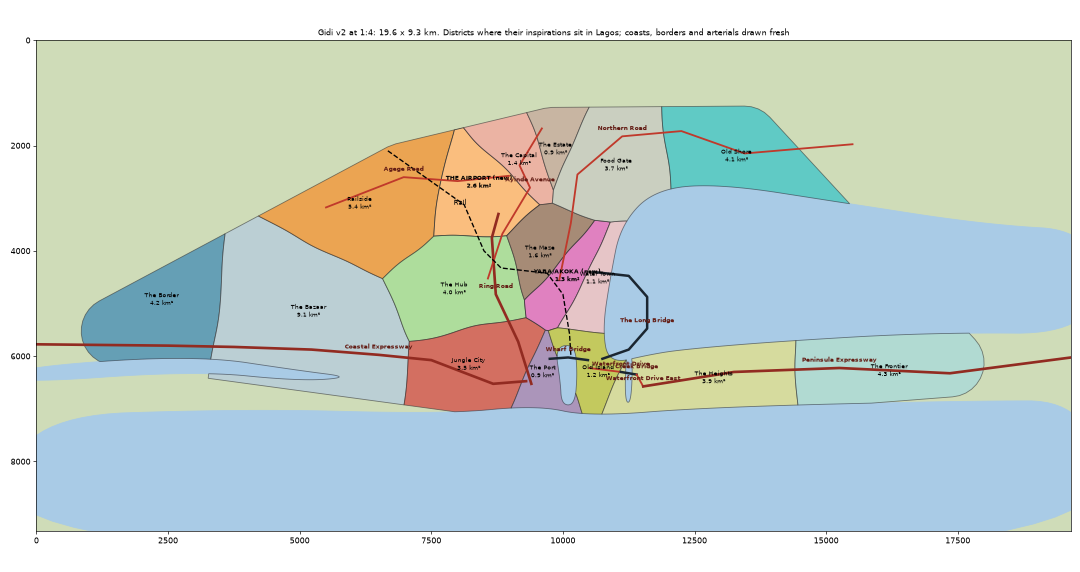
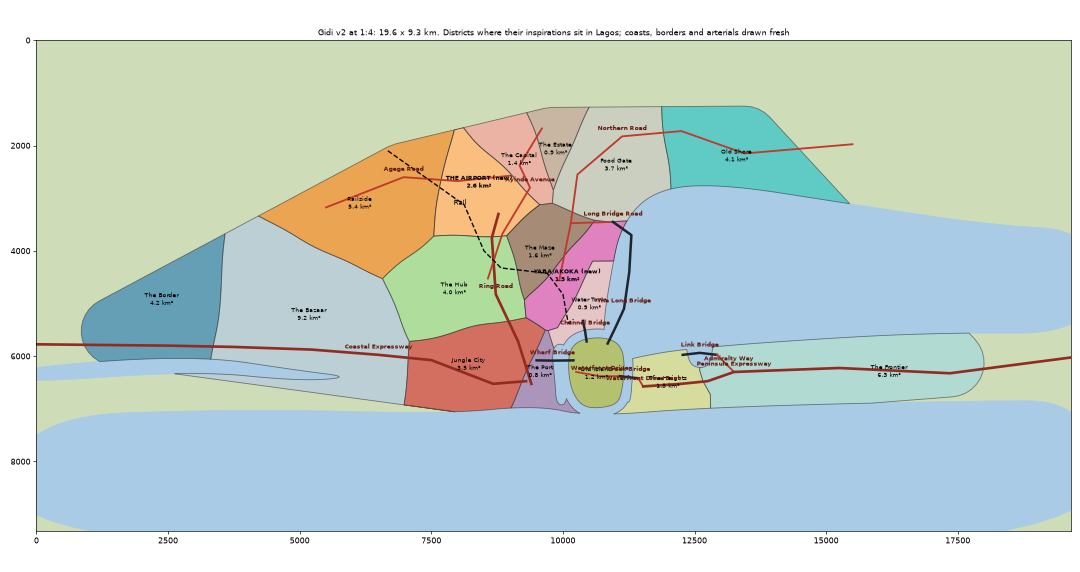
Layout v2: Old Island is an island again; the Link, Long and Channel bridges
Old Island is drawn as its own island, ringed by water (the harbour, a channel to
the lagoon, the creek, the sea). The Long Bridge (Third Mainland) now runs from
Akoka down the lagoon onto the Island's north end. The Channel Bridge (Carter) and
the Link Bridge (Lekki-Ikoyi) are added, across a new bay between the Heights and
the peninsula. Yaba/Akoka reaches the lagoon. Water is written without holes.

Claude-Session: https://claude.ai/code/session_01QKUSE24FeFykNHbYGUHskU

Changed region(s): [[0.4889, 0.3566, 0.8556, 0.743], [0.275, 0.535, 0.3056, 0.5647]]

diff --git a/scripts/layout_v2.py b/scripts/layout_v2.py
@@ -37,11 +37,31 @@ OCEAN = chaikin([(-500, coast_y + 300), (X(10), coast_y + 150), (X(25), coast_y 
 # the lagoon: east of Yaba and Water Town, north of the Island strip, south of the north shore (Ikorodu)
 LAGOON = chaikin([(X(37.5), Y(1.9)), (X(37.0), Y(4.5)), (X(37.6), Y(8.5)), (X(38.4), Y(12.5)), (X(41), Y(15.2)), (X(46), Y(15.6)), (X(55), Y(14.2)),
                   (X(66), Y(12.5)), (W + 500, Y(12)), (W + 500, Y(4.2)), (X(62), Y(4.3)), (X(50), Y(3.6)), (X(43), Y(3.0)), (X(40.5), Y(2.6))])
-HARBOUR = chaikin([(X(33.4), Y(3.2)), (X(34.9), Y(3.4)), (X(35.1), Y(1.2)), (X(34.9), Y(-1.2)), (X(33.9), Y(-1.2)), (X(33.8), Y(0.6))])   # west of the Island
+HARBOUR = chaikin([(X(33.1), Y(3.3)), (X(34.3), Y(3.5)), (X(34.4), Y(1.2)), (X(34.3), Y(-1.2)), (X(33.5), Y(-1.2)), (X(33.4), Y(0.6))])   # west of the Island
+# Old Island (Lagos Island) is an island: drawn fresh as one kidney of land, then ringed by water on every side (the channel to
+# its north joins the harbour to the lagoon, as the real one does under the bridges). Larger than its inspiration: our own twist.
+ISLAND = Polygon(chaikin([(10120, 5900), (10300, 5700), (10650, 5640), (10950, 5690), (11120, 5850), (11170, 6150), (11140, 6550),
+                          (11060, 6900), (10700, 6990), (10380, 6960), (10180, 6700), (10100, 6300)])).buffer(0)
+MOAT = 170   # the channel's width round the island, metres
+# the bay between the Heights (Ikoyi, Victoria Island) and the peninsula (Lekki): the Link Bridge crosses it
+BAY = chaikin([(X(43.3), Y(3.9)), (X(45.5), Y(3.9)), (X(45.2), Y(2.0)), (X(44.7), Y(1.6)), (X(43.9), Y(1.7)), (X(43.5), Y(2.3))])
+BAY_X = X(44.4)   # the Heights end at the bay; the land east of it is the Frontier's (Lekki's) west end
 CREEK_E = chaikin([(X(38.8), Y(2.8)), (X(39.3), Y(2.8)), (X(39.2), Y(-1.0)), (X(38.7), Y(-1.0))])                                     # east of the Island
 CREEK_W = chaikin([(-500, Y(1.6)), (X(6), Y(2.6)), (X(14), Y(1.4)), (X(18), Y(0.9)), (X(14), Y(0.6)), (X(6), Y(1.4)), (-500, Y(0.4))])  # Badagry creek
-water = unary_union([Polygon(x).buffer(0) for x in (OCEAN, LAGOON, HARBOUR, CREEK_E, CREEK_W)])
+water = unary_union([Polygon(x).buffer(0) for x in (OCEAN, LAGOON, HARBOUR, CREEK_E, CREEK_W, BAY)] + [ISLAND.buffer(MOAT)]).difference(ISLAND)
 land = box(0, 0, W, H).difference(water)
+
+
+def no_holes(g):
+    """The map keeps water as plain outlines, so a ring of water (round the island) is cut through the island's middle into pieces."""
+    out = []
+    for p in getattr(g, 'geoms', [g]):
+        if not p.interiors:
+            out.append(p); continue
+        c = Polygon(p.interiors[0]).centroid
+        for half in (box(-1, -1, c.x, H + 1), box(c.x, -1, W + 1, H + 1)):
+            out += no_holes(p.intersection(half))
+    return [q for q in out if q.geom_type == 'Polygon' and q.area > 1]
 # where the built city ends (bush and farms beyond): a fresh outline round the districts
 hull = MultiPoint([Point(*v) for v in anchor.values()]).convex_hull.buffer(2.6 * km, quad_segs=8)
 city = hull.intersection(land)
@@ -61,8 +81,26 @@ def bend(poly, amp, seed=7):
 
 D = {}
 for k in ids:
-    P = bend(cells[k], 0.18 * km).intersection(city)
+    P = bend(cells[k], 0.18 * km).intersection(city).difference(ISLAND)
     D[k] = max(getattr(P, 'geoms', [P]), key=lambda g: g.area)
+D['oldisland'] = ISLAND.intersection(city)
+# east of a bent line from the bay's foot down to the beach (where Victoria Island meets Lekki)
+east = Polygon([(BAY_X, 0), (W, 0), (W, H), (BAY_X + 260, H), (BAY_X + 200, Y(-0.4)), (BAY_X + 60, Y(0.6)), (BAY_X, Y(1.4))])
+D['frontier'] = unary_union([D['frontier'], D['heights'].intersection(east)])
+D['frontier'] = max(getattr(D['frontier'], 'geoms', [D['frontier']]), key=lambda g: g.area)
+D['heights'] = max(getattr(D['heights'].difference(east), 'geoms', [D['heights'].difference(east)]), key=lambda g: g.area)
+# Akoka's waterfront (the university's): Water Town's shore north of the Long Bridge's middle goes to Yaba/Akoka, as Akoka sits north of Makoko
+north = Polygon([(0, 0), (W, 0), (W, 4150), (0, 4250)])
+u = unary_union([D['yaba'], D['watertown'].intersection(north).buffer(0.5)])
+D['yaba'] = max(getattr(u, 'geoms', [u]), key=lambda q: q.area)
+D['watertown'] = max(getattr(D['watertown'].difference(north), 'geoms', [D['watertown'].difference(north)]), key=lambda q: q.area)
+# land the cells left out (scraps cut off by the water) joins the district it shares the longest border with
+left = city.difference(unary_union(list(D.values())))
+for g in getattr(left, 'geoms', [left]):
+    if g.area > 1000:
+        k = max(D, key=lambda k: g.buffer(2).intersection(D[k]).area)
+        u = unary_union([D[k], g.buffer(0.5)])
+        D[k] = max(getattr(u, 'geoms', [u]), key=lambda q: q.area)
 names = {'border': 'The Border', 'bazaar': 'The Bazaar', 'railside': 'Railside', 'airport': 'THE AIRPORT (new)', 'hub': 'The Hub', 'jungle': 'Jungle City',
          'capital': 'The Capital', 'port': 'The Port', 'maze': 'The Maze', 'estate': 'The Estate', 'yaba': 'YABA/AKOKA (new)', 'watertown': 'Water Town',
          'foodgate': 'Food Gate', 'oldisland': 'Old Island', 'heights': 'The Heights', 'oldshore': 'Old Shore', 'frontier': 'The Frontier'}
@@ -74,19 +112,23 @@ ART = [
     ('Ayinde Avenue', 'art', [P_('hub', 0, 0), (X(29.4), Y(11.8)), P_('airport', 900, -50), P_('capital', -100, 300), P_('estate', -200, -250)]),
     ('Northern Road', 'art', [P_('yaba', -120, 80), (X(34.6), Y(12.6)), P_('foodgate', -200, 300), (X(38.5), Y(19.2)), (X(43), Y(19.6)), P_('oldshore', 0, 250), (X(56), Y(18.6))]),
     ('Agege Road', 'art', [P_('capital', -300, 500), (X(26), Y(15.8)), P_('railside', 0, 0), (X(16), Y(13.8))]),
-    ('The Long Bridge', 'bridge', [(X(36.3), Y(8.9)), (X(39.0), Y(8.6)), (X(40.4), Y(7.0)), (X(40.4), Y(4.6)), (X(39.0), Y(3.0)), (X(37.0), Y(2.3))]),   # out over the lagoon
-    ('Wharf Bridge', 'bridge', [(X(33.0), Y(2.3)), (X(34.4), Y(2.4)), (X(35.9), Y(2.2))]),   # across the harbour
-    ('Waterfront Drive', 'art', [(X(36.0), Y(1.6)), (X(38.4), Y(1.3))]),
-    ('Creek Bridge', 'bridge', [(X(38.4), Y(1.3)), (X(39.6), Y(1.1))]),   # over the creek between the Island and the Heights
-    ('Waterfront Drive East', 'art', [(X(39.6), Y(1.1)), P_('heights', 0, 0)]),
-    ('Peninsula Expressway', 'exp', [P_('heights', 0, 0), (X(47), Y(1.3)), (X(55), Y(1.6)), P_('frontier', 0, 200), (W, Y(2.4))]),
+    ('Long Bridge Road', 'art', [(X(34.6), Y(12.6)), (10950, 3450)]),   # off the Northern Road to the bridge's foot
+    ('The Long Bridge', 'bridge', [(10950, 3450), (11300, 3700), (11260, 4400), (11160, 5100), (11000, 5450), (10850, 5760)]),   # Third Mainland: down the lagoon, past Water Town, onto the Island's north
+    ('Wharf Bridge', 'bridge', [(9500, 6080), (9800, 6085), (10200, 6080)]),   # Eko: from the Port side across the harbour to the Island
+    ('Channel Bridge', 'bridge', [(10380, 5330), (10420, 5520), (10450, 5720)]),   # Carter: from Yaba across the channel to the Island's north
+    ('Waterfront Drive', 'art', [(10250, 6300), (10700, 6380), (11080, 6380)]),
+    ('Creek Bridge', 'bridge', [(11080, 6380), (11250, 6400), (11430, 6420)]),   # Falomo: over the creek between the Island and the Heights
+    ('Waterfront Drive East', 'art', [(11430, 6420), P_('heights', 0, 0)]),
+    ('Link Bridge', 'bridge', [(X(43.1), Y(2.6)), (X(44.4), Y(2.75)), (X(45.7), Y(2.6))]),   # Lekki-Ikoyi: across the bay from the Heights to the peninsula
+    ('Admiralty Way', 'art', [(X(45.7), Y(2.6)), (X(46.6), Y(1.7)), (X(47), Y(1.3))]),   # the bridge's foot down to the expressway
+    ('Peninsula Expressway', 'exp', [P_('heights', 0, 0), (X(43), Y(0.4)), (X(45), Y(0.6)), (X(47), Y(1.3)), (X(55), Y(1.6)), P_('frontier', 0, 200), (W, Y(2.4))]),
 ]
-RAIL = [P_('railside', -300, -500), (X(26.5), Y(14)), (X(28.0), Y(10.5)), P_('hub', 250, -200), P_('maze', 0, 250), (X(34.0), Y(7.2)), (X(34.5), Y(4.2)), (X(34.6), Y(2.6))]
+RAIL = [P_('railside', -300, -500), (X(26.5), Y(14)), (X(28.0), Y(10.5)), P_('hub', 250, -200), P_('maze', 0, 250), (X(34.0), Y(7.2)), (X(34.4), Y(5.0)), (10200, 5300)]   # ends on the mainland at the channel (Iddo)
 
 if __name__ == '__main__':
     import json as _json
     out = {'scale': SCALE, 'size': [W, H], 'note': 'Gidi v2 frame (scripts/layout_v2.py): positions from real Lagos at 1:4; all shapes drawn fresh',
-           'water': [[[round(x, 1), round(y, 1)] for x, y in g.exterior.coords] for g in getattr(water, 'geoms', [water])],
+           'water': [[[round(x, 1), round(y, 1)] for x, y in g.exterior.coords] for g in no_holes(water)],
            'districts': {k: [[round(x, 1), round(y, 1)] for x, y in v.exterior.coords] for k, v in D.items()},
            'anchors': {k: [round(v[0]), round(v[1])] for k, v in anchor.items()},
            'arterials': [{'name': n, 'cls': c, 'pts': [[round(x, 1), round(y, 1)] for x, y in pts]} for n, c, pts in ART],

diff --git a/docs/LAYOUT-V2.md b/docs/LAYOUT-V2.md
@@ -15,7 +15,18 @@ Chosen by the owner on 15 Oct 2026: a fictional Lagos with its real shape first,
 - **New districts:**
   - **The Airport,** where Murtala Muhammed sits between Ikeja (the Capital), Agege and Alimosho (Railside) and Oshodi (the Hub).
   - **Yaba/Akoka,** between Mushin (the Maze) and the lagoon, beside Bariga and Makoko (Water Town), with the university on the waterfront.
-- **Lagos Island is an island:** the harbour to its west, the lagoon to its north, a creek to the east.
+- **Old Island (Lagos Island) is a true island,** ringed by water on every side:
+  - the harbour to its west
+  - a channel to its north, joining the harbour to the lagoon
+  - the lagoon to its north-east
+  - a creek to its east
+  - the sea to its south
+
+  It's drawn larger than its inspiration (1.2 km²): our own twist. Four bridges reach it.
+- **A bay** cuts in from the lagoon between the Heights (Ikoyi and Victoria Island) and the peninsula. The land east of the bay is the Frontier's west end (Lekki).
+- **Yaba/Akoka reaches the lagoon** north of Water Town, where the university's waterfront goes.
+
+![Old Island and its bridges](img/layout-v2-island.png)
 - **Growing later:** 1:2.5 (29 × 12 km) is the same layout rescaled, if we ever want more room.
 
 ## The arterials and the rail (drawn by hand, each playing its real counterpart's part)
@@ -27,11 +38,13 @@ Chosen by the owner on 15 Oct 2026: a fictional Lagos with its real shape first,
 | Agege Road | Agege Motor Road (west) | the Capital to Railside |
 | Ayinde Avenue | Agege Motor Road / Obafemi Awolowo Way | the Hub, past the Airport, the Capital, the Estate |
 | Northern Road | Ikorodu Road | Yaba, Food Gate, round the lagoon to Old Shore |
-| The Long Bridge | Third Mainland Bridge | from Yaba, curving out over the lagoon, to the Island |
-| Wharf Bridge | Eko and Carter Bridges | across the harbour to the Island |
-| Waterfront Drive, Creek Bridge | Ozumba Mbadiwe and Falomo | the Island across the creek to the Heights |
+| Long Bridge Road, The Long Bridge | Third Mainland Bridge | off the Northern Road at Akoka, 2.6 km down the lagoon past Water Town, onto the Island's north end |
+| Wharf Bridge | Eko Bridge | from the Port side across the harbour to the Island |
+| Channel Bridge | Carter Bridge | from Yaba across the channel to the Island's north |
+| Waterfront Drive, Creek Bridge | Marina and Falomo | across the Island, then over the creek to the Heights |
+| Link Bridge, Admiralty Way | Lekki–Ikoyi Link Bridge | across the bay from the Heights to the peninsula, down to the expressway |
 | Peninsula Expressway | Lekki–Epe Expressway | the Heights east through the Frontier |
-| Rail | the Lagos–Ibadan line | Agege, Oshodi, Mushin, Yaba, to the harbour |
+| Rail | the Lagos–Ibadan line | Agege, Oshodi, Mushin, Yaba, ending on the mainland at the channel (Iddo) |
 
 ## Files
 - `scripts/layout_v2.py` writes `web/layout-v2.json`: size, water, districts, anchors, arterials and rail. It also writes the picture.
